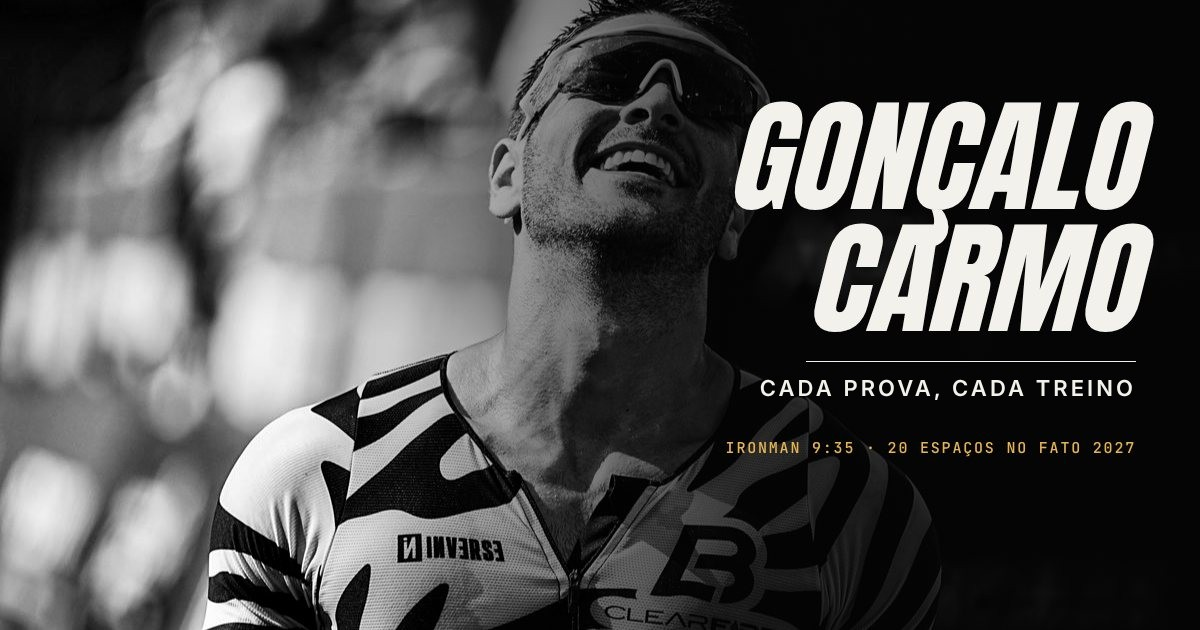
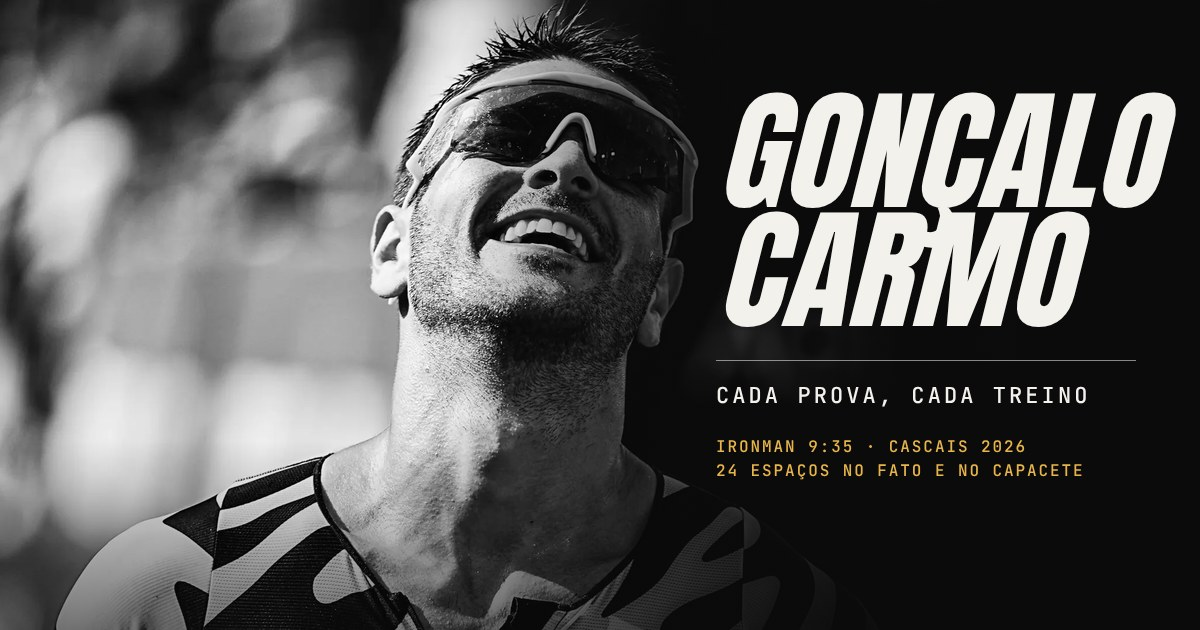
Link preview without third-party marks; TikTok on the contact card
The preview image (og.jpg, what WhatsApp and Instagram show for a gocarmo.com
link) is cropped above the chest prints, so INVERSE, the B and CLEARFIRE no
longer travel with every shared link, and it says 24 spots on the suit and
helmet, matching the description. Its version query is bumped so the apps
fetch it again. The contact card and its vCard now list TikTok.

Claude-Session: https://claude.ai/code/session_01U6TryHJX4Q26K6Xqs1ogYW

diff --git a/cartao/index.html b/cartao/index.html
@@ -5,13 +5,13 @@
 <meta name="viewport" content="width=device-width, initial-scale=1, viewport-fit=cover">
 <meta http-equiv="Content-Security-Policy" content="default-src 'none'; script-src 'self' 'sha256-14YT2gz3pTRuIknalp46Wf/bbZ10gAdx0czKnrphR+E='; style-src 'self'; font-src 'self'; img-src 'self'; connect-src 'self'; manifest-src 'self'; object-src 'none'; base-uri 'none'; form-action 'none'; worker-src 'none'">
 <title>Gonçalo Carmo · Cartão de contacto</title>
-<meta name="description" content="Gonçalo Carmo, triatleta em Lisboa: guardar o contacto, WhatsApp, email, Instagram e Strava.">
+<meta name="description" content="Gonçalo Carmo, triatleta em Lisboa: guardar o contacto, WhatsApp, email, Instagram, TikTok e Strava.">
 <meta name="theme-color" content="#0b0b0c">
 <link rel="canonical" href="https://gocarmo.com/cartao/">
 <meta property="og:type" content="profile">
 <meta property="og:title" content="Gonçalo Carmo · Cartão de contacto">
 <meta property="og:description" content="Triatleta em Lisboa. Guardar o contacto, WhatsApp, email, Instagram e Strava.">
-<meta property="og:image" content="https://gocarmo.com/assets/img/og.jpg">
+<meta property="og:image" content="https://gocarmo.com/assets/img/og.jpg?v=945d8536">
 <meta property="og:image:width" content="1200">
 <meta property="og:image:height" content="630">
 <meta property="og:image:alt" content="Gonçalo Carmo a sorrir na meta, de óculos de sol.">
@@ -75,6 +75,7 @@
   <symbol id="i-gc" viewBox="0 0 64 64"><path fill="currentColor" d="M30.71 7.01L30.73 7.55C28.26 8.47 25.98 9.89 24.06 11.7C22.23 13.43 20.73 15.51 19.67 17.79C16.11 25.44 17.61 34.69 23.33 40.88C24.67 42.33 26.22 43.59 27.92 44.59C29.8 45.7 31.85 46.5 33.98 46.96C36.37 47.47 38.85 47.54 41.27 47.17C44.28 46.72 47.17 45.61 49.71 43.94C52.53 42.09 54.9 39.55 56.54 36.59L57.17 36.67C56.72 40.56 55.43 44.35 53.37 47.68C51.72 50.35 49.58 52.71 47.09 54.62C45.06 56.18 42.81 57.42 40.41 58.32C38.16 59.16 35.79 59.7 33.39 59.9C23.83 60.72 14.26 56.34 8.74 48.48C7.13 46.19 5.89 43.63 5.1 40.95C4.19 37.85 3.88 34.59 4.19 31.38C4.52 27.88 5.58 24.46 7.25 21.38C9.32 17.56 12.32 14.27 15.9 11.82C20.25 8.85 25.44 7.12 30.71 7.01Z"/><path class="sun" d="M43.81 10.69C41.55 9.72 39.1 9.2 36.64 9.18C36.66 9.07 36.67 8.93 36.72 8.84C36.78 8.71 36.89 8.6 36.98 8.49C37.23 8.15 37.49 7.81 37.75 7.47C38.62 6.31 39.49 5.16 40.36 4L42.51 4.46C42.84 5.87 43.17 7.28 43.49 8.69C43.59 9.11 43.69 9.52 43.78 9.94C43.81 10.07 43.87 10.22 43.88 10.36C43.88 10.46 43.83 10.59 43.81 10.69ZM52.05 17.63C50.55 15.37 48.58 13.44 46.29 12C46.37 11.91 46.48 11.75 46.58 11.69C46.69 11.62 47.09 11.48 47.24 11.42C47.67 11.25 48.11 11.07 48.55 10.89C50.12 10.26 51.7 9.62 53.27 8.98L54.85 10.51C54.27 12.1 53.69 13.7 53.11 15.29C52.95 15.74 52.78 16.18 52.62 16.62C52.57 16.77 52.45 17.18 52.38 17.29C52.32 17.39 52.14 17.54 52.05 17.63ZM55.24 26.95C55.07 24.62 54.48 22.32 53.5 20.21C53.6 20.18 53.73 20.12 53.84 20.12C53.96 20.12 54.22 20.19 54.35 20.22C54.73 20.29 55.11 20.36 55.48 20.44C56.79 20.69 58.09 20.94 59.4 21.19L59.93 23.32C58.88 24.17 57.83 25.02 56.78 25.86C56.47 26.11 56.15 26.37 55.84 26.62C55.74 26.7 55.64 26.82 55.53 26.88C55.45 26.92 55.33 26.93 55.24 26.95ZM50.15 27.99C50.19 29.82 49.86 31.66 49.16 33.36C48.58 34.79 47.74 36.12 46.69 37.26C45.83 38.2 44.83 39.01 43.73 39.66C37.83 43.2 29.76 41.91 25.41 36.52C24.55 35.46 23.86 34.26 23.37 32.98C22.79 31.43 22.5 29.79 22.53 28.14C22.63 21.82 27.22 16.17 33.34 14.69C34.59 14.38 35.88 14.26 37.16 14.32C38.61 14.4 40.03 14.71 41.37 15.24C42.91 15.85 44.34 16.74 45.56 17.86C46.93 19.12 48.04 20.64 48.82 22.32C49.65 24.1 50.11 26.04 50.15 27.99Z"/></symbol>
   <symbol id="i-mail" viewBox="0 0 24 24"><path fill="currentColor" d="M3 5h18a1 1 0 0 1 1 1v12a1 1 0 0 1-1 1H3a1 1 0 0 1-1-1V6a1 1 0 0 1 1-1zm9 7.2L4.5 7.4v9.6h15V7.4z"/></symbol>
   <symbol id="i-ig" viewBox="0 0 24 24"><path fill="currentColor" d="M12 7.3A4.7 4.7 0 1 0 16.7 12 4.7 4.7 0 0 0 12 7.3zm0 7.7a3 3 0 1 1 3-3 3 3 0 0 1-3 3zm6-7.9a1.1 1.1 0 1 1-1.1-1.1A1.1 1.1 0 0 1 18 7.1zM21.9 8.2a5.4 5.4 0 0 0-1.5-3.9 5.4 5.4 0 0 0-3.9-1.5C15 2.7 9 2.7 7.5 2.8a5.4 5.4 0 0 0-3.9 1.5A5.4 5.4 0 0 0 2.1 8.2C2 9.7 2 14.3 2.1 15.8a5.4 5.4 0 0 0 1.5 3.9 5.4 5.4 0 0 0 3.9 1.5c1.5.1 7.5.1 9 0a5.4 5.4 0 0 0 3.9-1.5 5.4 5.4 0 0 0 1.5-3.9c.1-1.5.1-6.1 0-7.6zm-2 9.3a3 3 0 0 1-1.7 1.7c-1.2.5-4 .4-5.2.4s-4.1.1-5.2-.4a3 3 0 0 1-1.7-1.7c-.5-1.2-.4-4-.4-5.2s-.1-4.1.4-5.2a3 3 0 0 1 1.7-1.7C6.9 5 9.7 5.1 12 5.1s4.1-.1 5.2.4a3 3 0 0 1 1.7 1.7c.5 1.2.4 4 .4 5.2s.1 4-.4 5.2z"/></symbol>
+  <symbol id="i-tiktok" viewBox="0 0 24 24"><path fill="currentColor" d="M16.6 5.8A4.3 4.3 0 0 1 15.5 3h-3.1v12.4a2.6 2.6 0 1 1-2.6-2.6 2.5 2.5 0 0 1 .8.1V9.7a5.7 5.7 0 1 0 4.9 5.7V9.1a7.3 7.3 0 0 0 4.3 1.4V7.4a4.3 4.3 0 0 1-3.2-1.6z"/></symbol>
   <symbol id="i-strava" viewBox="0 0 24 24"><path fill="currentColor" d="M15.4 17.4 13.3 13.3h-3.1l5.2 10.2 5.2-10.2h-3.1zM10.2 2 3.3 15.5h4.1l2.8-5.4 2.7 5.4h4.1z"/></symbol>
   <symbol id="i-tel" viewBox="0 0 24 24"><path fill="none" stroke="currentColor" stroke-width="1.7" stroke-linecap="round" stroke-linejoin="round" d="M6.6 3.5h2.9l1.6 4.1-2.1 1.5a11.2 11.2 0 0 0 5.9 5.9l1.5-2.1 4.1 1.6v2.9a2 2 0 0 1-2.1 2.1A16.2 16.2 0 0 1 4.5 5.6a2 2 0 0 1 2.1-2.1z"/></symbol>
   <symbol id="i-wa" viewBox="0 0 24 24"><path fill="currentColor" d="M12 2a10 10 0 0 0-8.6 15.1L2 22l5-1.3A10 10 0 1 0 12 2zm0 18.2a8.2 8.2 0 0 1-4.2-1.2l-.3-.2-3 .8.8-2.9-.2-.3A8.2 8.2 0 1 1 12 20.2zm4.5-6.1c-.2-.1-1.5-.7-1.7-.8s-.4-.1-.6.1-.7.8-.8 1-.3.2-.5.1a6.7 6.7 0 0 1-3.3-2.9c-.3-.4.3-.4.8-1.4a.5.5 0 0 0 0-.5l-.8-1.8c-.2-.5-.4-.4-.6-.4h-.5a1 1 0 0 0-.7.3 3 3 0 0 0-.9 2.2 5.2 5.2 0 0 0 1.1 2.7 11.8 11.8 0 0 0 4.5 4c1.7.7 2.3.8 3.2.6a2.7 2.7 0 0 0 1.8-1.2 2.2 2.2 0 0 0 .2-1.2c-.1-.1-.3-.2-.5-.3z"/></symbol>
@@ -126,6 +127,7 @@
       <li><span class="ic"><svg aria-hidden="true" focusable="false"><use href="#i-wa"/></svg></span><a href="https://wa.me/351916395103" target="_blank" rel="noopener"><span data-l="pt">Enviar mensagem</span><span data-l="en" lang="en" hidden>Send a message</span><small>WhatsApp</small></a></li>
       <li><span class="ic"><svg aria-hidden="true" focusable="false"><use href="#i-mail"/></svg></span><a href="mailto:allez@gocarmo.com">allez@gocarmo.com<small>Email</small></a></li>
       <li><span class="ic"><svg aria-hidden="true" focusable="false"><use href="#i-ig"/></svg></span><a href="https://www.instagram.com/goncalo.carmo99/" target="_blank" rel="noopener">@goncalo.carmo99<small>Instagram</small></a></li>
+      <li><span class="ic"><svg aria-hidden="true" focusable="false"><use href="#i-tiktok"/></svg></span><a href="https://www.tiktok.com/@goncalo.carmo99" target="_blank" rel="noopener">@goncalo.carmo99<small>TikTok</small></a></li>
       <li><span class="ic"><svg class="hib" aria-hidden="true" focusable="false"><use href="#i-gc"/></svg></span><a href="../">gocarmo.com<small><span data-l="pt">Site</span><span data-l="en" lang="en" hidden>Website</span></small></a></li>
       <li><span class="ic"><svg aria-hidden="true" focusable="false"><use href="#i-strava"/></svg></span><a href="https://www.strava.com/athletes/50182673" target="_blank" rel="noopener">Gonçalo Carmo<small>Strava</small></a></li>
     </ul>

diff --git a/index.html b/index.html
@@ -10,7 +10,7 @@
 <meta property="og:type" content="website">
 <meta property="og:title" content="Gonçalo Carmo · Cada prova, cada treino">
 <meta property="og:description" content="Triatleta português, IRONMAN Portugal-Cascais em 9h35 no segundo ano de triatlo. Em 2027 leva marcas consigo nas provas e nos treinos: 24 espaços no fato e no capacete de competição.">
-<meta property="og:image" content="https://gocarmo.com/assets/img/og.jpg?v=b3ca2477">
+<meta property="og:image" content="https://gocarmo.com/assets/img/og.jpg?v=945d8536">
 <meta property="og:image:width" content="1200">
 <meta property="og:image:height" content="630">
 <meta property="og:image:alt" content="Gonçalo Carmo a sorrir na meta, de óculos de sol.">
@@ -99,7 +99,7 @@
 </script>
 <script type="application/ld+json">
 { "@context": "https://schema.org", "@type": "Person", "name": "Gonçalo Carmo", "jobTitle": "Triathlete",
-  "url": "https://gocarmo.com/", "image": "https://gocarmo.com/assets/img/og.jpg?v=b3ca2477",
+  "url": "https://gocarmo.com/", "image": "https://gocarmo.com/assets/img/og.jpg?v=945d8536",
   "description": "Triatleta português. IRONMAN Portugal-Cascais em 9h35. Procura patrocinadores que o acompanhem nas provas e nos treinos de 2027.", "knowsAbout": "Triathlon",
   "nationality": "PT", "email": "mailto:allez@gocarmo.com",
   "sameAs": ["https://www.instagram.com/goncalo.carmo99/", "https://www.tiktok.com/@goncalo.carmo99", "https://www.strava.com/athletes/50182673"] }

diff --git a/scripts/cartao.py b/scripts/cartao.py
@@ -138,6 +138,8 @@ lines = [
     'item1.X-ABLabel:Instagram',
     f'item2.URL:{STRAVA}',
     'item2.X-ABLabel:Strava',
+    f'item3.URL:https://www.tiktok.com/@{IG}',
+    'item3.X-ABLabel:TikTok',
     f'NOTE:{esc("Espaços no fato e no capacete para a época 2027: gocarmo.com/#fato")}',
     'PHOTO;ENCODING=b;TYPE=JPEG:' + base64.b64encode(photo).decode('ascii'),
     'END:VCARD',
